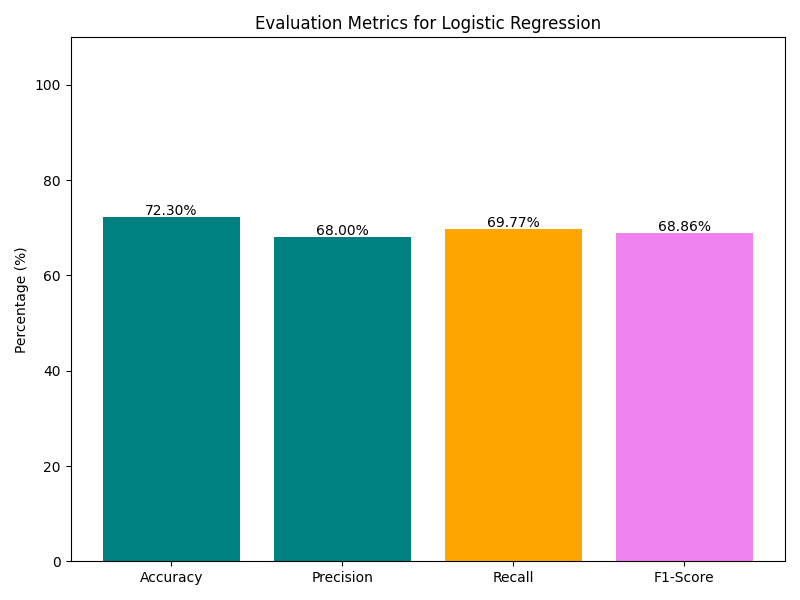
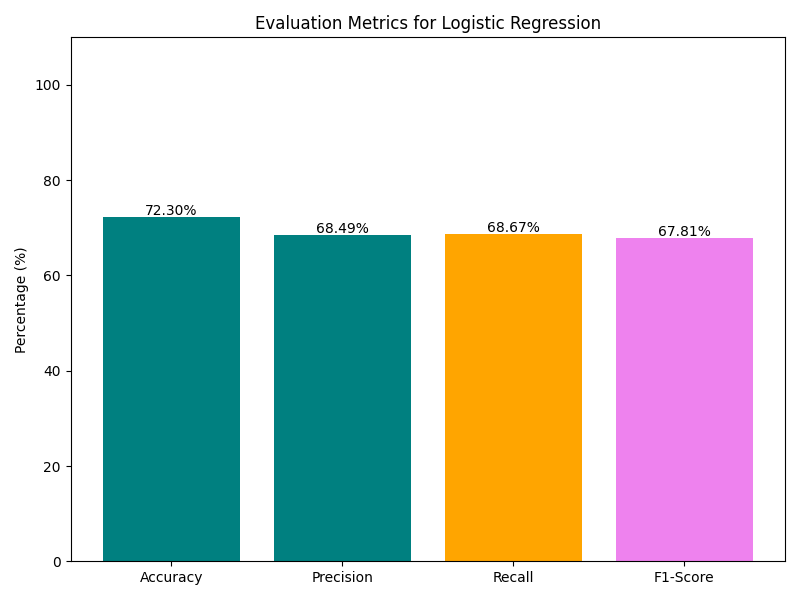
Add decision tree visualization and requirements file

Changed region(s): [[0.7812, 0.36, 0.9375, 0.42], [0.3438, 0.36, 0.5, 0.42], [0.5625, 0.36, 0.7188, 0.39]]

diff --git a/obesity_prediction.py b/obesity_prediction.py
@@ -34,7 +34,7 @@ from sklearn.metrics import (
 from sklearn.linear_model import LogisticRegression
 from sklearn.neighbors import KNeighborsClassifier
 from sklearn import svm
-from sklearn.tree import DecisionTreeClassifier, export_graphviz
+from sklearn.tree import DecisionTreeClassifier, plot_tree
 
 # ============================================================
 # SECTION 2: LOAD DATASET
@@ -283,22 +283,21 @@ print("Accuracy score:", dt_accuracy)
 print("Confusion matrix:\n", confusion_matrix(y_test, y_pred_dt))
 print("Classification report:\n", classification_report(y_test, y_pred_dt))
 
-# Visualise Decision Tree
-try:
-    import graphviz
-    dot_data = export_graphviz(
-        clf_entropy,
-        out_file=None,
-        feature_names=X.columns,
-        filled=True,
-        rounded=True,
-        special_characters=True
-    )
-    graph = graphviz.Source(dot_data)
-    graph.render("outputs/fig7_decision_tree", format="png", cleanup=True)
-    print("Decision tree saved to outputs/fig7_decision_tree.png")
-except ImportError:
-    print("graphviz not installed — skipping tree visualisation.")
+# Visualise Decision Tree with matplotlib
+plt.figure(figsize=(24, 18))
+plot_tree(
+    clf_entropy,
+    feature_names=X.columns,
+    class_names=[str(c) for c in np.unique(y)],
+    filled=True,
+    rounded=True,
+    fontsize=10
+)
+plt.title("Decision Tree Visualization")
+plt.tight_layout()
+plt.savefig("outputs/fig7_decision_tree.png", dpi=150)
+plt.close()
+print("Decision tree saved to outputs/fig7_decision_tree.png")
 
 # ============================================================
 # SECTION 9: MODEL COMPARISON SUMMARY